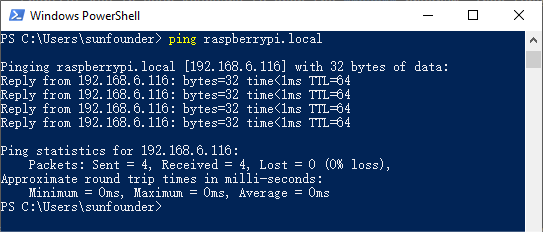
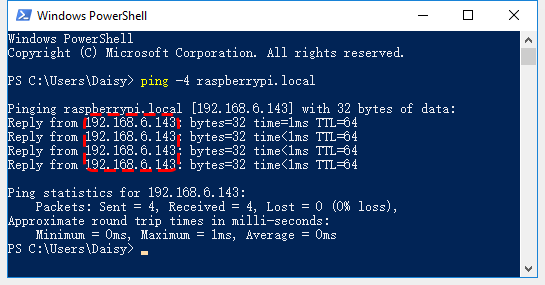
change the windows powershell relate

Changed region(s): [[0.0, 0.0, 1.0, 1.0], [0.6483, 0.2716, 0.825, 0.3017]]

diff --git a/docs/source/python/python_start/remote_windows.rst b/docs/source/python/python_start/remote_windows.rst
@@ -1,45 +1,56 @@
 Windows Users
 =======================
 
+Login Raspberry Pi Remotely
+-----------------------------
 
-If you're a Windows user, you can use Windows PowerShell to login Raspberry Pi remotely.
+If you are using win10, you can use follow way to login Raspberry Pi remotely.
 
-#. Press the ``windows`` + ``R`` shortcut key in your keyboard to open the **Run** program. Then type **powershell** in the input box. 
+#. Type ``powershell`` in the search box of your Windows desktop, right click on the ``Windows PowerShell``, and select ``Run as administrator`` from the menu that appears.
 
-    .. image:: img/sp221221_135900.png
+    .. image:: img/powershell_ssh.png
         :align: center
 
-#. Check if your Raspberry Pi is on the same network by type in ``ping <hostname>.local``. 
+#. Then, check the IP address of your Raspberry Pi by type in ``ping -4 <hostname>.local``. 
 
     .. code-block::
 
-        ping raspberrypi.local
+        ping -4 raspberrypi.local
 
     .. image:: img/sp221221_145225.png
         :width: 550
         :align: center
 
-    * If terminal prompts ``Ping request could not find host <hostname>.local``, it is possible that the Raspberry Pi failed to connect to the network.lease check the network.
-    * If you really can't ping ``<hostname>.local``, try to :ref:`get_ip`  and ``ping <IP address>`` instead. (e.g., ``ping 192.168.6.116``)
-    * If multiple prompts like "Reply from <IP address>: bytes=32 time<1ms TTL=64" appear, it means your computer can access the Raspberry Pi.
+    As shown above, you can see the Raspberry Pi's IP address after it has been connected to the network.
+
+    * If terminal prompts ``Ping request could not find host pi.local. Please check the name and try again.``. Please follow the prompts to make sure the hostname you fill in is correct.
+    * Still can't get the IP? Check your network or WiFi configuration on the Raspberry Pi.
 
 
-#. Type in ``ssh <username>@<hostname>.local`` (or ``ssh <username>@<IP address>``).
+#. At this point you will be able to log in to your Raspberry Pi using the ``ssh <username>@<hostname>.local`` (or ``ssh <username>@<IP address>``).
 
     .. code-block::
 
         ssh pi@raspberrypi.local
 
+    .. note::
 
-#. The following message may appear.
+        If a prompt appears ``The term 'ssh' is not recognized as the name of a cmdlet...``.
+        
+        It means your system is too old and does not have ssh tools pre-installed, you need to manually :ref:`openssh_powershell`.
+        
+        Or use a third party tool like :ref:`login_windows`.
+
+
+#. The following message will be displayed only when you log in for the first time, so enter ``yes``.
 
     .. code-block::
 
-        The authenticity of host 'raspberrypi.local (192.168.6.116)' can't be established.
-        ECDSA key fingerprint is SHA256:7ggckKZ2EEgS76a557cddfxFNDOBBuzcJsgaqA/igz4.
-        Are you sure you want to continue connecting (yes/no/[fingerprint])? 
+        The authenticity of host 'raspberrypi.local (2400:2410:2101:5800:635b:f0b6:2662:8cba)' can't be established.
+        ED25519 key fingerprint is SHA256:oo7x3ZSgAo032wD1tE8eW0fFM/kmewIvRwkBys6XRwg.
+        This key is not known by any other names
+        Are you sure you want to continue connecting (yes/no/[fingerprint])?
 
-    Input \"yes\".
 
 #. Input the password you set before. (Mine is ``raspberry``.)
 

diff --git a/docs/source/python/python_start/remote_linux.rst b/docs/source/python/python_start/remote_linux.rst
@@ -18,11 +18,10 @@ it.
         :width: 550
         :align: center
 
-    * If terminal prompts ``ping: cannot resolve <hostname>.local``, it is possible that the Raspberry Pi failed to connect to the network. Please check the network.
-    * If you really can't ping ``<hostname>.local``, try to :ref:`get_ip`  and ``ping <IP address>`` instead. (e.g., ``ping 192.168.6.116``)
-    * If multiple prompts like ``64 bytes from <IP address>: icmp_seq=0 ttl=64 time=0.464 ms`` appear, it means your computer can access the Raspberry Pi.
+    As shown above, you can see the Raspberry Pi's IP address after it has been connected to the network.
 
-
+    * If terminal prompts ``Ping request could not find host pi.local. Please check the name and try again.``. Please follow the prompts to make sure the hostname you fill in is correct.
+    * Still can't get the IP? Check your network or WiFi configuration on the Raspberry Pi.
 
 
 #. Type in ``ssh <username>@<hostname>.local`` (or ``ssh <username>@<IP address>``).
@@ -31,25 +30,27 @@ it.
 
         ssh pi@raspberrypi.local
 
-#. The following message may appear.
+    .. note::
+
+        If a prompt appears ``The term 'ssh' is not recognized as the name of a cmdlet...``.
+        
+        It means your system is too old and does not have ssh tools pre-installed, you need to manually :ref:`openssh_powershell`.
+        
+        Or use a third party tool like :ref:`login_windows`.
+
+
+#. The following message will be displayed only when you log in for the first time, so enter ``yes``.
 
     .. code-block::
 
-        The authenticity of host 'raspberrypi.local (192.168.6.116)' can't be established.
-        ECDSA key fingerprint is SHA256:7ggckKZ2EEgS76a557cddfxFNDOBBuzcJsgaqA/igz4.
-        Are you sure you want to continue connecting (yes/no/[fingerprint])? 
-
-    Input \"yes\".
-
-    .. image:: img/mac-ssh-login.png
-        :width: 550
-        :align: center
+        The authenticity of host 'raspberrypi.local (2400:2410:2101:5800:635b:f0b6:2662:8cba)' can't be established.
+        ED25519 key fingerprint is SHA256:oo7x3ZSgAo032wD1tE8eW0fFM/kmewIvRwkBys6XRwg.
+        This key is not known by any other names
+        Are you sure you want to continue connecting (yes/no/[fingerprint])?
 
 
 #. Input the password you set before. (Mine is ``raspberry``.)
 
-.. .. image:: img/image23.png
-..     :align: center
 
     .. note::
         When you input the password, the characters do not display on

diff --git a/docs/source/appendix/install_openssh_powershell.rst b/docs/source/appendix/install_openssh_powershell.rst
@@ -1,0 +1,53 @@
+.. _openssh_powershell:
+
+Install OpenSSH via Powershell
+-----------------------------------
+
+When you use ``ssh <username>@<hostname>.local`` (or ``ssh <username>@<IP address>``) to connect to your Raspberry Pi, but the following error message appears.
+
+    .. code-block::
+
+        ssh: The term 'ssh' is not recognized as the name of a cmdlet, function, script file, or operable program. Check the
+        spelling of the name, or if a path was included, verify that the path is correct and try again.
+
+
+It means your computer system is too old and does not have OpenSSH pre-installed, you need to follow the tutorial below to install it manually.
+
+#. Type ``powershell`` in the search box of your Windows desktop, right click on the ``Windows PowerShell``, and select ``Run as administrator`` from the menu that appears.
+
+    .. image:: img/powershell_ssh.png
+        :align: center
+
+#. Use the following command to install ``OpenSSH.Client``.
+
+    .. code-block::
+
+        Add-WindowsCapability -Online -Name OpenSSH.Client~~~~0.0.1.0
+
+#. After installation, the following output will be returned.
+
+    .. code-block::
+
+        Path          :
+        Online        : True
+        RestartNeeded : False
+
+#. Verify the installation by using the following command.
+
+    .. code-block::
+
+        Get-WindowsCapability -Online | Where-Object Name -like 'OpenSSH*'
+
+#. It now tells you that ``OpenSSH.Client`` has been successfully installed.
+
+    .. code-block::
+
+        Name  : OpenSSH.Client~~~~0.0.1.0
+        State : Installed
+
+        Name  : OpenSSH.Server~~~~0.0.1.0
+        State : NotPresent
+
+#. Now restart PowerShell and continue to run it as administrator. At this point you will be able to log in to your Raspberry Pi using the ``ssh`` command, where you will be prompted to enter the password you set up earlier.
+
+    .. image:: img/powershell_login.png

diff --git a/docs/source/appendix/login_windows.rst b/docs/source/appendix/login_windows.rst
@@ -1,0 +1,43 @@
+.. _login_windows:
+
+PuTTY
+=========================
+
+If you are a Windows user, you can use some applications of SSH. Here, we recommend **PuTTY**.
+
+**Step 1**
+
+Download PuTTY.
+
+**Step 2**
+
+Open PuTTY and click **Session** on the left tree-alike structure. Enter
+the IP address of the RPi in the text box under **Host Name (or IP
+address)** and **22** under **Port** (by default it is 22).
+
+.. image:: img/image25.png
+    :align: center
+
+**Step 3**
+
+Click **Open**. Note that when you first log in to the Raspberry Pi with
+the IP address, there prompts a security reminder. Just click **Yes**.
+
+**Step 4**
+
+When the PuTTY window prompts \"**login as:**\", type in
+\"**pi**\" (the user name of the RPi), and **password**: \"raspberry\"
+(the default one, if you haven't changed it).
+
+.. note::
+
+    When you input the password, the characters do not display on window accordingly, which is normal. What you need is to input the correct password.
+    
+    If inactive appears next to PuTTY, it means that the connection has been broken and needs to be reconnected.
+    
+.. image:: img/image26.png
+    :align: center
+
+**Step 5**
+
+Here, we get the Raspberry Pi connected and it is time to conduct the next steps.

diff --git a/docs/source/appendix/appendix.rst b/docs/source/appendix/appendix.rst
@@ -4,7 +4,8 @@ Appendix
 
 .. toctree::
     
-    get_ip_address
+    login_windows
+    install_openssh_powershell
     battery
 
 
